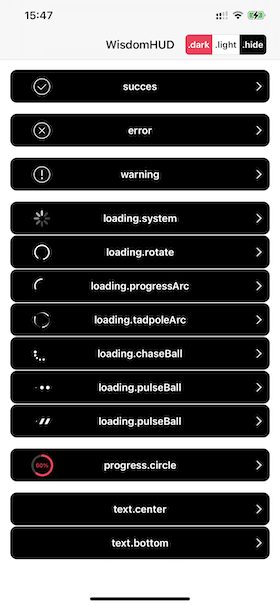
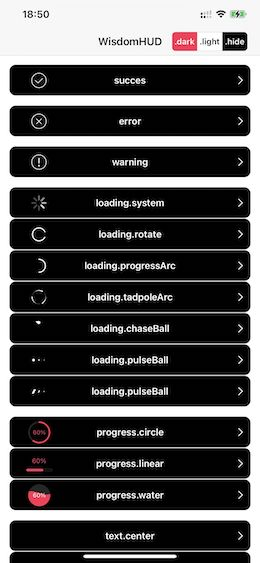
update image/progres

diff --git a/Source/WisdomHUDImageProgre.swift b/Source/WisdomHUDImageProgre.swift
@@ -232,10 +232,10 @@ extension WisdomHUDImageProgreView {
 
     @objc public private(set) var waterColor = UIColor.white
     
-    private lazy var water_deep: CGFloat = { return size/3.5 }()
-    private lazy var water_margin: CGFloat = { return size/12 }()
-    private lazy var left_bottom_x: CGFloat = (water_margin+size)/4//+size/14
-    private lazy var right_top_x: CGFloat = (water_margin+size)/4*3//-size/14
+    private lazy var water_deep: CGFloat = { return size/3.4 }()
+    private lazy var water_margin: CGFloat = { return size/16 }()
+    private lazy var left_bottom_x: CGFloat = (water_margin+size)/4
+    private lazy var right_top_x: CGFloat = (water_margin+size)/4*3
     
     private var water_leftTopAnim = false
     private var progre: CGFloat = 0
